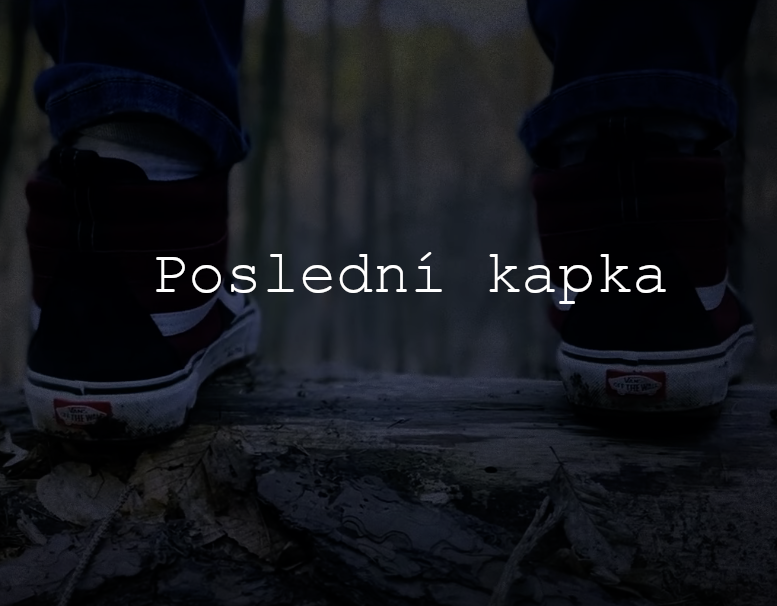
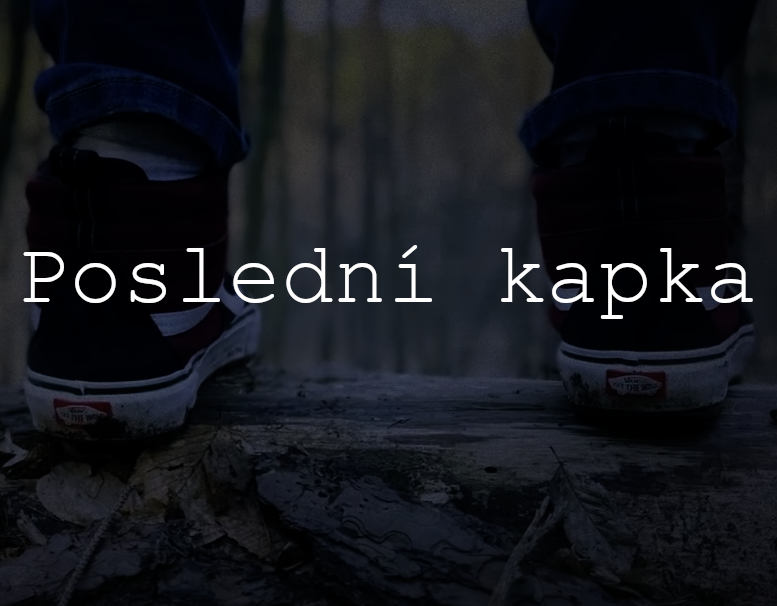
upravil čitelnost textu o obrázku, přepsal určité classy, přidal buttonům, iconkám, images a li lepší animaci

Changed region(s): [[0.0309, 0.3861, 0.556, 0.505], [0.6178, 0.3861, 0.9884, 0.5347]]

diff --git a/index.html b/index.html
@@ -41,9 +41,12 @@
         <div class="column">
             <section id="skills" class="container">
                 <h1>Skills</h1>
-                <svg class="icon" xmlns="http://www.w3.org/2000/svg" viewBox="0 0 384 512">
-                    <path fill="#4ea0bd" d="M0 32l34.9 395.8L191.5 480l157.6-52.2L384 32H0zm308.2 127.9H124.4l4.1 49.4h175.6l-13.6 148.4-97.9 27v.3h-1.1l-98.7-27.3-6-75.8h47.7L138 320l53.5 14.5 53.7-14.5 6-62.2H84.3L71.5 112.2h241.1l-4.4 47.7z"/>
-                </svg>
+                <div class="skill-capsule">
+                    <svg class="icon" xmlns="http://www.w3.org/2000/svg" viewBox="0 0 384 512">
+                        <path fill="#4ea0bd" d="M0 32l34.9 395.8L191.5 480l157.6-52.2L384 32H0zm308.2 127.9H124.4l4.1 49.4h175.6l-13.6 148.4-97.9 27v.3h-1.1l-98.7-27.3-6-75.8h47.7L138 320l53.5 14.5 53.7-14.5 6-62.2H84.3L71.5 112.2h241.1l-4.4 47.7z"/>
+                    </svg>
+                    <a href="">HTML</a>
+                </div>
                 <svg class="icon" xmlns="http://www.w3.org/2000/svg" viewBox="0 0 384 512">
                     <path fill="#4ea0bd" d="M0 32l34.9 395.8L192 480l157.1-52.2L384 32H0zm313.1 80l-4.8 47.3L193 208.6l-.3 .1h111.5l-12.8 146.6-98.2 28.7-98.8-29.2-6.4-73.9h48.9l3.2 38.3 52.6 13.3 54.7-15.4 3.7-61.6-166.3-.5v-.1l-.2 .1-3.6-46.3L193.1 162l6.5-2.7H76.7L70.9 112h242.2z"/>
                 </svg>
@@ -60,7 +63,7 @@
 
             <section id="contact" class="container">
                 <h1>Contact</h1>
-                <div class="button" id="contact">
+                <div class="contact-me" id="contact">
                     <a  href="mailto:harnach.petr@gmail.com" class="contact-link" target="_blank" rel="noopener noreferrer">Contact
                         <svg class="icon" xmlns="http://www.w3.org/2000/svg" viewBox="0 0 512 512">
                             <path fill="#4ea0bd" d="M184 48l144 0c4.4 0 8 3.6 8 8l0 40L176 96l0-40c0-4.4 3.6-8 8-8zm-56 8l0 40L64 96C28.7 96 0 124.7 0 160l0 96 192 0 128 0 192 0 0-96c0-35.3-28.7-64-64-64l-64 0 0-40c0-30.9-25.1-56-56-56L184 0c-30.9 0-56 25.1-56 56zM512 288l-192 0 0 32c0 17.7-14.3 32-32 32l-64 0c-17.7 0-32-14.3-32-32l0-32L0 288 0 416c0 35.3 28.7 64 64 64l384 0c35.3 0 64-28.7 64-64l0-128z"/>
@@ -121,7 +124,7 @@
             </section>
             <section id="Certificates" class="container">
                 <h1>Certificates</h1>
-                <ul class="sidebar">
+                <ul class="scrollbar">
                     <li><a href="https://www.credly.com/badges/4dcded3d-eb82-499a-b2a4-efe7a38cc1af/linked_in_profile" target="_blank" rel="noopener noreferrer">IT Essentials</a></li>
                     <li><a href="https://www.credly.com/badges/c856ce6a-b2b8-40bf-9732-87a5113017c0/linked_in_profile" target="_blank" rel="noopener noreferrer">CCNA: Introduction to Networks</a></li>
                     <li><a href="https://www.credly.com/badges/77e8740f-bef2-4906-97b7-63c710801af8/linked_in_profile" target="_blank" rel="noopener noreferrer">Introduction to Cybersecurity</a></li>

diff --git a/styles.css b/styles.css
@@ -89,6 +89,14 @@ main
     
 }
 
+
+.skill-capsule 
+{
+    background-color: #0b2833;
+    border-radius: 15px;
+    padding: 5px;
+}
+
 .about-text 
 {
     display: flex;
@@ -143,14 +151,19 @@ main
     cursor: pointer;
 }
 
+.picture-container 
+{
+    transition: transform 0.2s ease;
+}
+
 .picture-container:hover
 {
-    scale: 1.05;
+    transform: scale(1.05);
 }
 
 .picture-container:active 
 {
-    scale: 0.95;
+    transform: scale(0.95);
 }
 
 p 
@@ -164,43 +177,53 @@ a
     text-decoration: none;
 }
 
-.button
+.contact-me
 {
-    border: 1px solid black;
     border-radius: 16px;
     padding: 15px;
-    background-color: #2e5c6d;
+    background-color: #0b2833;
     cursor: pointer;
-    transition: scale 0.2 ease;
     width: 50%;
+    transition: transform 0.2s ease;
 }
 
-.button:hover
+/* .contact-me .icon 
 {
-    scale: 1.05;
-    color: black;
+
+} */
+
+.contact-me:hover
+{
+    transform: scale(1.05);
 }
 
-.button:active 
+.contact-me:active 
 {
-    scale: 0.95;
+    transform: scale(0.95);
 }
 
 .icon 
 {
     width: 1.5em;
     height: 1.5em;
+    
 }
 
 .icons-footer
 {
     width: 1.5em;
     height: 1.5em;
+    transition: transform 0.2s ease;
 }
 
 .icons-footer:hover
 {
-    scale: 1.15;
+    transform: scale(1.15);
+}
+
+.icons-footer:active 
+{
+    transform: scale(0.95)
 }
 
 .project-container 
@@ -216,15 +239,21 @@ a
     height: 150px;
     width: 200px;
     display: flex;
-    margin: 10px;   
+    margin: 10px;
+    transition: transform 0.2s ease;   
 }
 
 .picture-projects:hover
 {
-    scale: 1.04;
+    transform: scale(1.04);
 }
 
-.sidebar 
+.picture-projects:active 
+{
+    transform: scale(0.94);
+}
+
+.scrollbar 
 {
     margin: 20px;
     height: 50%;
@@ -233,30 +262,35 @@ a
     border: 1px solid #19323b;
     overflow-x: hidden;
 }
-.sidebar li
+.scrollbar li
 {
     padding: 5px;
     font-size: 18px;
+    transition: transform 0.2s ease;
 }
-.sidebar li:hover
+.scrollbar li:hover
 {
-    scale: 1.04;
+    transform: scale(1.04);
     
 }
 
+.scrollbar li:active
+{
+    transform: scale(0.94);
+}
 
 
-.sidebar::-webkit-scrollbar 
+.scrollbar::-webkit-scrollbar 
 {
     width: 6px;
 }
 
-.sidebar::-webkit-scrollbar-track
+.scrollbar::-webkit-scrollbar-track
 {
     background-color: transparent;
 }
 
-.sidebar::-webkit-scrollbar-thumb 
+.scrollbar::-webkit-scrollbar-thumb 
 {
     background: #4EA0BD;
     border-radius: 10px;
